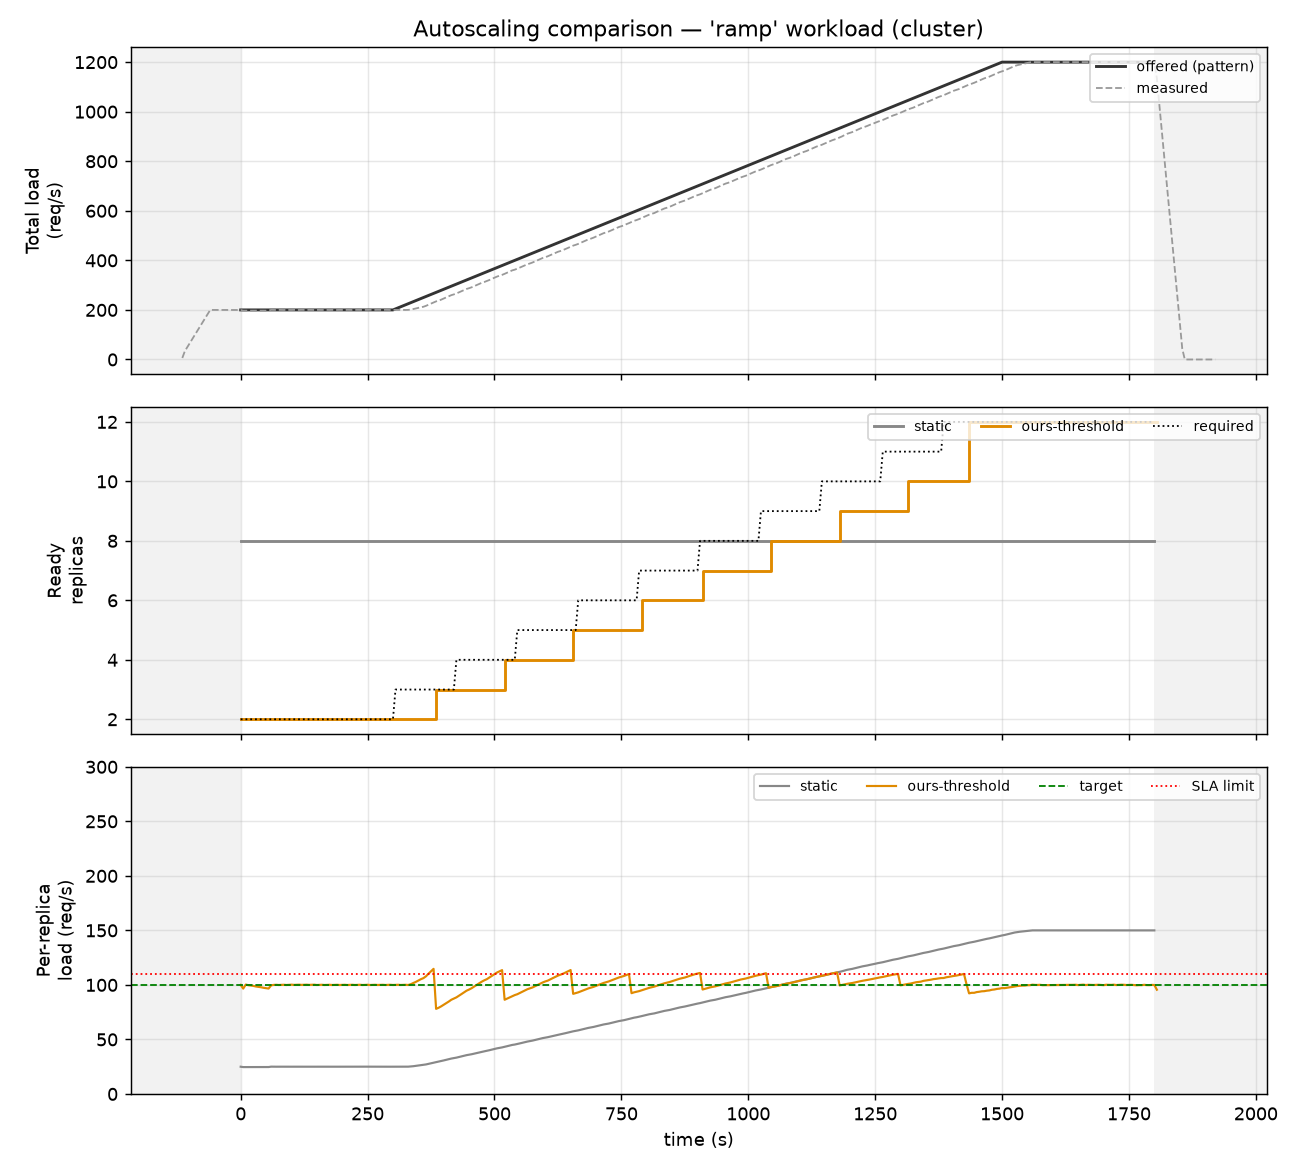
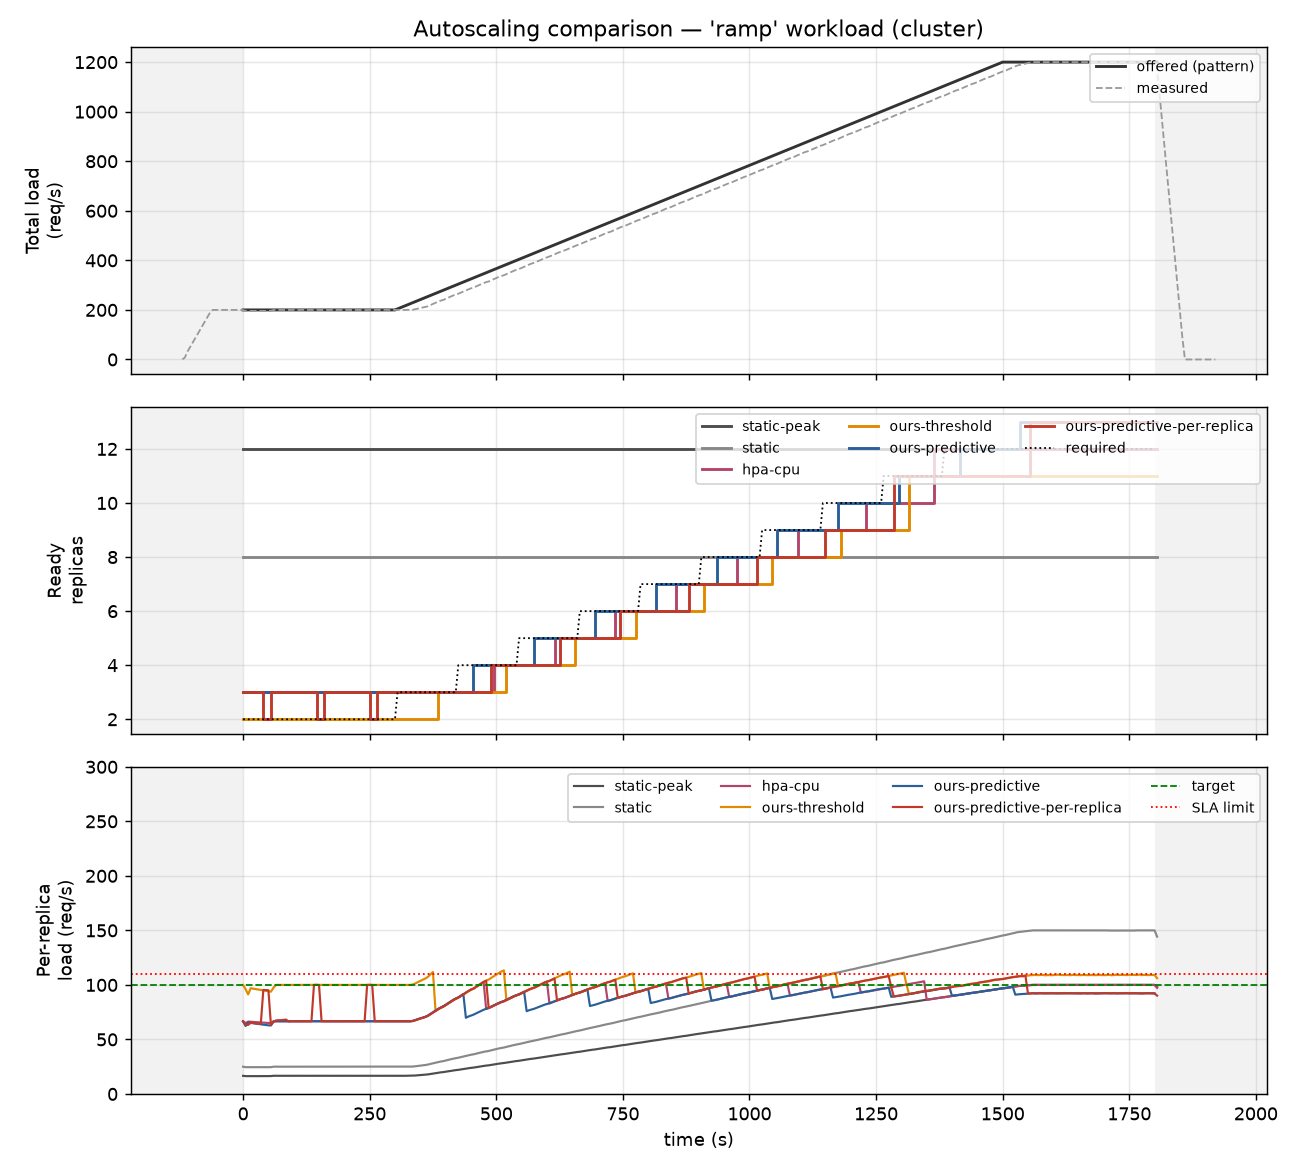
Six-for-six on ramp, and the headline metric does not discriminate
First complete arm set at TIME_SCALE=1. Every window came in at 1800-1802s
against an expected 1800, so the lost-wall-clock gate has now been read
against a clean input as well as the broken one that motivated it.

Four of six arms score 0.0% SLA violations. The ramp adds about one
replica of demand every two minutes, which a 15s reconcile and a 30s pod
start-up can track reactively, so the column saturates. Recording that
plainly matters more than the individual numbers: reporting only SLA
would claim the arms are indistinguishable when under-provisioning
replica-seconds and reaction time separate them cleanly.

static-peak does the job it was added for. Same 0.0% SLA as
ours-predictive for 61% more capacity, which is the cost comparison the
chapter lacked while a mean-provisioned static was the only baseline.

hpa-cpu comes out cheaper than ours-predictive at equal SLA. That goes in
the chapter as it stands, per the commitment in 9.2. On this workload the
predictive claim is 30s median reaction against 70s and under-provisioning
of 270 replica-seconds against 605, not an SLA win.

The per-replica variant scored 0.0% and looks better than the correct
policy on cost. Its only tell is 5 direction reversals against 0 for
every other arm: a monotonic workload keeps almost every correction
pointing the same way, so the feedback loop has nowhere to oscillate.
diurnal and bursty have to carry that argument.

diff --git a/docs/lab-notebook.md b/docs/lab-notebook.md
@@ -800,3 +800,80 @@ has not been calibrated.** Three of the defects in §11.7–11.8 were in the che
 the system under test, and all three biased toward *rejecting good runs* — the failure mode
 that is invisible until it has quietly eaten a day of cluster time. Test a new arm at
 `TIME_SCALE=20` before spending 34 minutes on it.
+
+### 11.9 The first complete arm set: six-for-six on `ramp` — 2026-08-11
+
+Relaunched on AC power with the lid open. **All six arms valid**, every measured window
+1800–1802 s against an expected 1800 — no lost wall clock, so §11.7's gate has now been read
+against a clean input as well as a broken one.
+
+| Arm | SLA violations | Replica-s | Under-prov. | Over-prov. | CPU core-s | Reaction (median) | Scale ↑/↓ | Reversals | p95 |
+|---|---:|---:|---:|---:|---:|---:|---:|---:|---:|
+| `static-peak` (12) | 0.0% | 21,720 | 0 | 8,450 | 2,640.8 | — | 0/0 | 0 | 2.4 ms |
+| `static` (8) | 35.6% | 14,480 | 2,420 | 3,630 | 2,631.2 | — | 0/0 | 0 | 2.4 ms |
+| `hpa-cpu` | 0.0% | 12,990 | 605 | 325 | 2,586.0 | 70.0 s | 8/0 | 0 | 2.4 ms |
+| `ours-threshold` | 4.1% | 11,810 | 1,460 | 0 | 2,476.7 | 110.0 s | 8/0 | 0 | 2.5 ms |
+| `ours-predictive` | 0.0% | 13,515 | 270 | 575 | 2,585.1 | 30.0 s | 10/0 | 0 | 2.4 ms |
+| `ours-predictive-per-replica` | 0.0% | 12,900 | 885 | 515 | 2,475.9 | 87.5 s | 11/3 | **5** | 2.5 ms |
+
+**The SLA-violation column does not discriminate on this workload.** Four of six arms sit at
+0.0%. `ramp` rises by 1000 req/s over 20 minutes — about 0.83 req/s per second, or roughly
+one additional replica every two minutes — which is slow enough that a 15-second reconcile
+loop and a 30-second pod start-up can track it reactively. The headline metric saturates,
+and reporting only that column would say the arms are indistinguishable when they are not.
+The columns that separate them here are **under-provisioning replica-seconds** and **median
+reaction time**. Note this in the evaluation chapter rather than quietly picking the
+flattering column.
+
+What the numbers actually support:
+
+1. **`static-peak` is the cost argument, and it is a large one.** Same 0.0% SLA as
+   `ours-predictive`, for 21,720 replica-seconds against 13,515 — **61% more capacity for
+   identical SLA outcomes**. This is the comparison the evaluation chapter was missing while
+   `static` was the only baseline, and it is the one that does not look rigged.
+2. **`ours-predictive` buys responsiveness, not SLA.** Against `hpa-cpu` it cuts median
+   reaction from 70 s to **30 s** and under-provisioning from 605 to **270 replica-seconds**
+   — less than half — while costing 4% more replica-seconds (13,515 vs 12,990). On `ramp`
+   that is the honest claim. It is *not* "predictive beats HPA on SLA": both are at zero.
+3. **`hpa-cpu` performs well and should be reported saying so.** §9.2 already commits to
+   publishing negative results; a slow monotonic ramp is a workload stock HPA handles, and
+   the thesis is stronger for saying it than for burying it.
+4. **`ours-threshold` is the cheapest arm and the only `ours-*` one that violates.** 11,810
+   replica-seconds, 4.1% violations, and the analyzer flags it never reaching 12 ready
+   replicas after the final step — it lags the top of the ramp and never catches up before
+   the window closes. Cheap because it under-provisions, which is the expected reactive
+   tradeoff and lands it in the right place on the curve.
+
+**The per-replica variant's pathology is real but invisible in the headline columns.** It
+scored 0.0% SLA and 12,900 replica-seconds — on those two numbers alone it looks *better*
+than the correct predictive policy. The instability shows up in exactly one place: **5
+direction reversals and 3 scale-downs, against 0 and 0 for every other arm.** A monotonically
+rising workload gives positive feedback little room to run: the forecast may be wrong, but
+the correction is almost always in the same direction, so the oscillation is damped by the
+workload rather than by the policy. §9.5 keeps this arm to demonstrate the failure mode, and
+`ramp` is the workload least able to demonstrate it. **`diurnal` and `bursty` are where the
+claim has to be made** — `diurnal` turns, and `bursty` has troughs after each burst, and both
+give the loop room to overshoot in both directions. If the reversal count does not blow up
+there, §3's central argument needs restating in terms of reversals rather than SLA cost.
+
+**Informal repeatability.** Two arms now have two independent `TIME_SCALE=1` runs on `ramp`
+(§11.6 and here): `static` 35.5% → 35.6% violations and 14,440 → 14,480 replica-seconds;
+`ours-threshold` 5.2% → 4.1% and 12,050 → 11,810. The no-controller arm reproduces to
+~0.1%, the autoscaled one varies by ~1 percentage point. That is the difference between
+measuring an open loop and a closed one, and it sets the resolution: **differences below
+about 1.5 points of SLA violation between autoscaled arms are not distinguishable at n=1.**
+Every gap being leaned on above is far wider than that, but any future claim resting on a
+sub-1.5-point difference needs repeats before it can be made.
+
+**Open question 6 is answered for `ramp`.** Simulator and cluster agree on the ordering of
+all three simulator-comparable arms, on *both* headline metrics:
+
+| Metric | Simulator order | Cluster order |
+|---|---|---|
+| SLA violations | predictive < threshold < static | predictive < threshold < static |
+| Replica-seconds | threshold < predictive < static | threshold < predictive < static |
+
+The simulator's absolute magnitudes were never expected to match — it models a 30 s start-up
+and no network — but ordering agreement is what licenses using it to reason about
+configurations too expensive to run at the cluster. One pattern is not enough to close the
+question; it stays open until the remaining three are in.

diff --git a/experiments/results/summary.md b/experiments/results/summary.md
@@ -7,8 +7,12 @@ Generated by `experiments/analyze.py` from the raw captures in
 
 | Workload | Arm | SLA violations | Replica-seconds | Under-prov. | p95 latency |
 |---|---|---:|---:|---:|---:|
-| `ramp` | `static` | 35.5% | 14,440 | 2,400 | 2.4 ms |
-| `ramp` | `ours-threshold` | 5.2% | 12,050 | 1,220 | 2.5 ms |
+| `ramp` | `static-peak` | 0.0% | 21,720 | 0 | 2.4 ms |
+| `ramp` | `static` | 35.6% | 14,480 | 2,420 | 2.4 ms |
+| `ramp` | `hpa-cpu` | 0.0% | 12,990 | 605 | 2.4 ms |
+| `ramp` | `ours-threshold` | 4.1% | 11,810 | 1,460 | 2.5 ms |
+| `ramp` | `ours-predictive` | 0.0% | 13,515 | 270 | 2.4 ms |
+| `ramp` | `ours-predictive-per-replica` | 0.0% | 12,900 | 885 | 2.5 ms |
 
 ## Simulator vs cluster — ordering agreement
 
@@ -18,8 +22,8 @@ so its magnitudes are not expected to match the cluster's.
 
 | Workload | Metric | Simulator order | Cluster order | Agrees |
 |---|---|---|---|---|
-| `ramp` | SLA violations | ours-threshold < static | ours-threshold < static | yes |
-| `ramp` | Replica-seconds | ours-threshold < static | ours-threshold < static | yes |
+| `ramp` | SLA violations | ours-predictive < ours-threshold < static | ours-predictive < ours-threshold < static | yes |
+| `ramp` | Replica-seconds | ours-threshold < ours-predictive < static | ours-threshold < ours-predictive < static | yes |
 
 ## Excluded runs
 

diff --git a/experiments/results/table_ramp.md b/experiments/results/table_ramp.md
@@ -5,8 +5,12 @@ Measurement window only; warmup and settle excluded. Required replicas are
 
 | Arm | SLA violations | Replica-seconds | Under-prov. | Over-prov. | CPU core-s | Reaction (median) | Scale ↑/↓ | Reversals | p95 latency |
 |---|---:|---:|---:|---:|---:|---:|---:|---:|---:|
-| `static` | 35.5% | 14,440 | 2,400 | 3,630 | 2,624.9 | 0.0 s | 0/0 | 0 | 2.4 ms |
-| `ours-threshold` | 5.2% | 12,050 | 1,220 | 0 | 2,479.0 | 125.0 s | 9/0 | 0 | 2.5 ms |
+| `static-peak` | 0.0% | 21,720 | 0 | 8,450 | 2,640.8 | 0.0 s | 0/0 | 0 | 2.4 ms |
+| `static` | 35.6% | 14,480 | 2,420 | 3,630 | 2,631.2 | 0.0 s | 0/0 | 0 | 2.4 ms |
+| `hpa-cpu` | 0.0% | 12,990 | 605 | 325 | 2,586.0 | 70.0 s | 8/0 | 0 | 2.4 ms |
+| `ours-threshold` | 4.1% | 11,810 | 1,460 | 0 | 2,476.7 | 110.0 s | 8/0 | 0 | 2.5 ms |
+| `ours-predictive` | 0.0% | 13,515 | 270 | 575 | 2,585.1 | 30.0 s | 10/0 | 0 | 2.4 ms |
+| `ours-predictive-per-replica` | 0.0% | 12,900 | 885 | 515 | 2,475.9 | 87.5 s | 11/3 | 5 | 2.5 ms |
 
 Notes:
 
@@ -14,3 +18,4 @@ Notes:
 - `static`: never reached 10 ready replicas after the step at t=1145s
 - `static`: never reached 11 ready replicas after the step at t=1265s
 - `static`: never reached 12 ready replicas after the step at t=1385s
+- `ours-threshold`: never reached 12 ready replicas after the step at t=1385s
